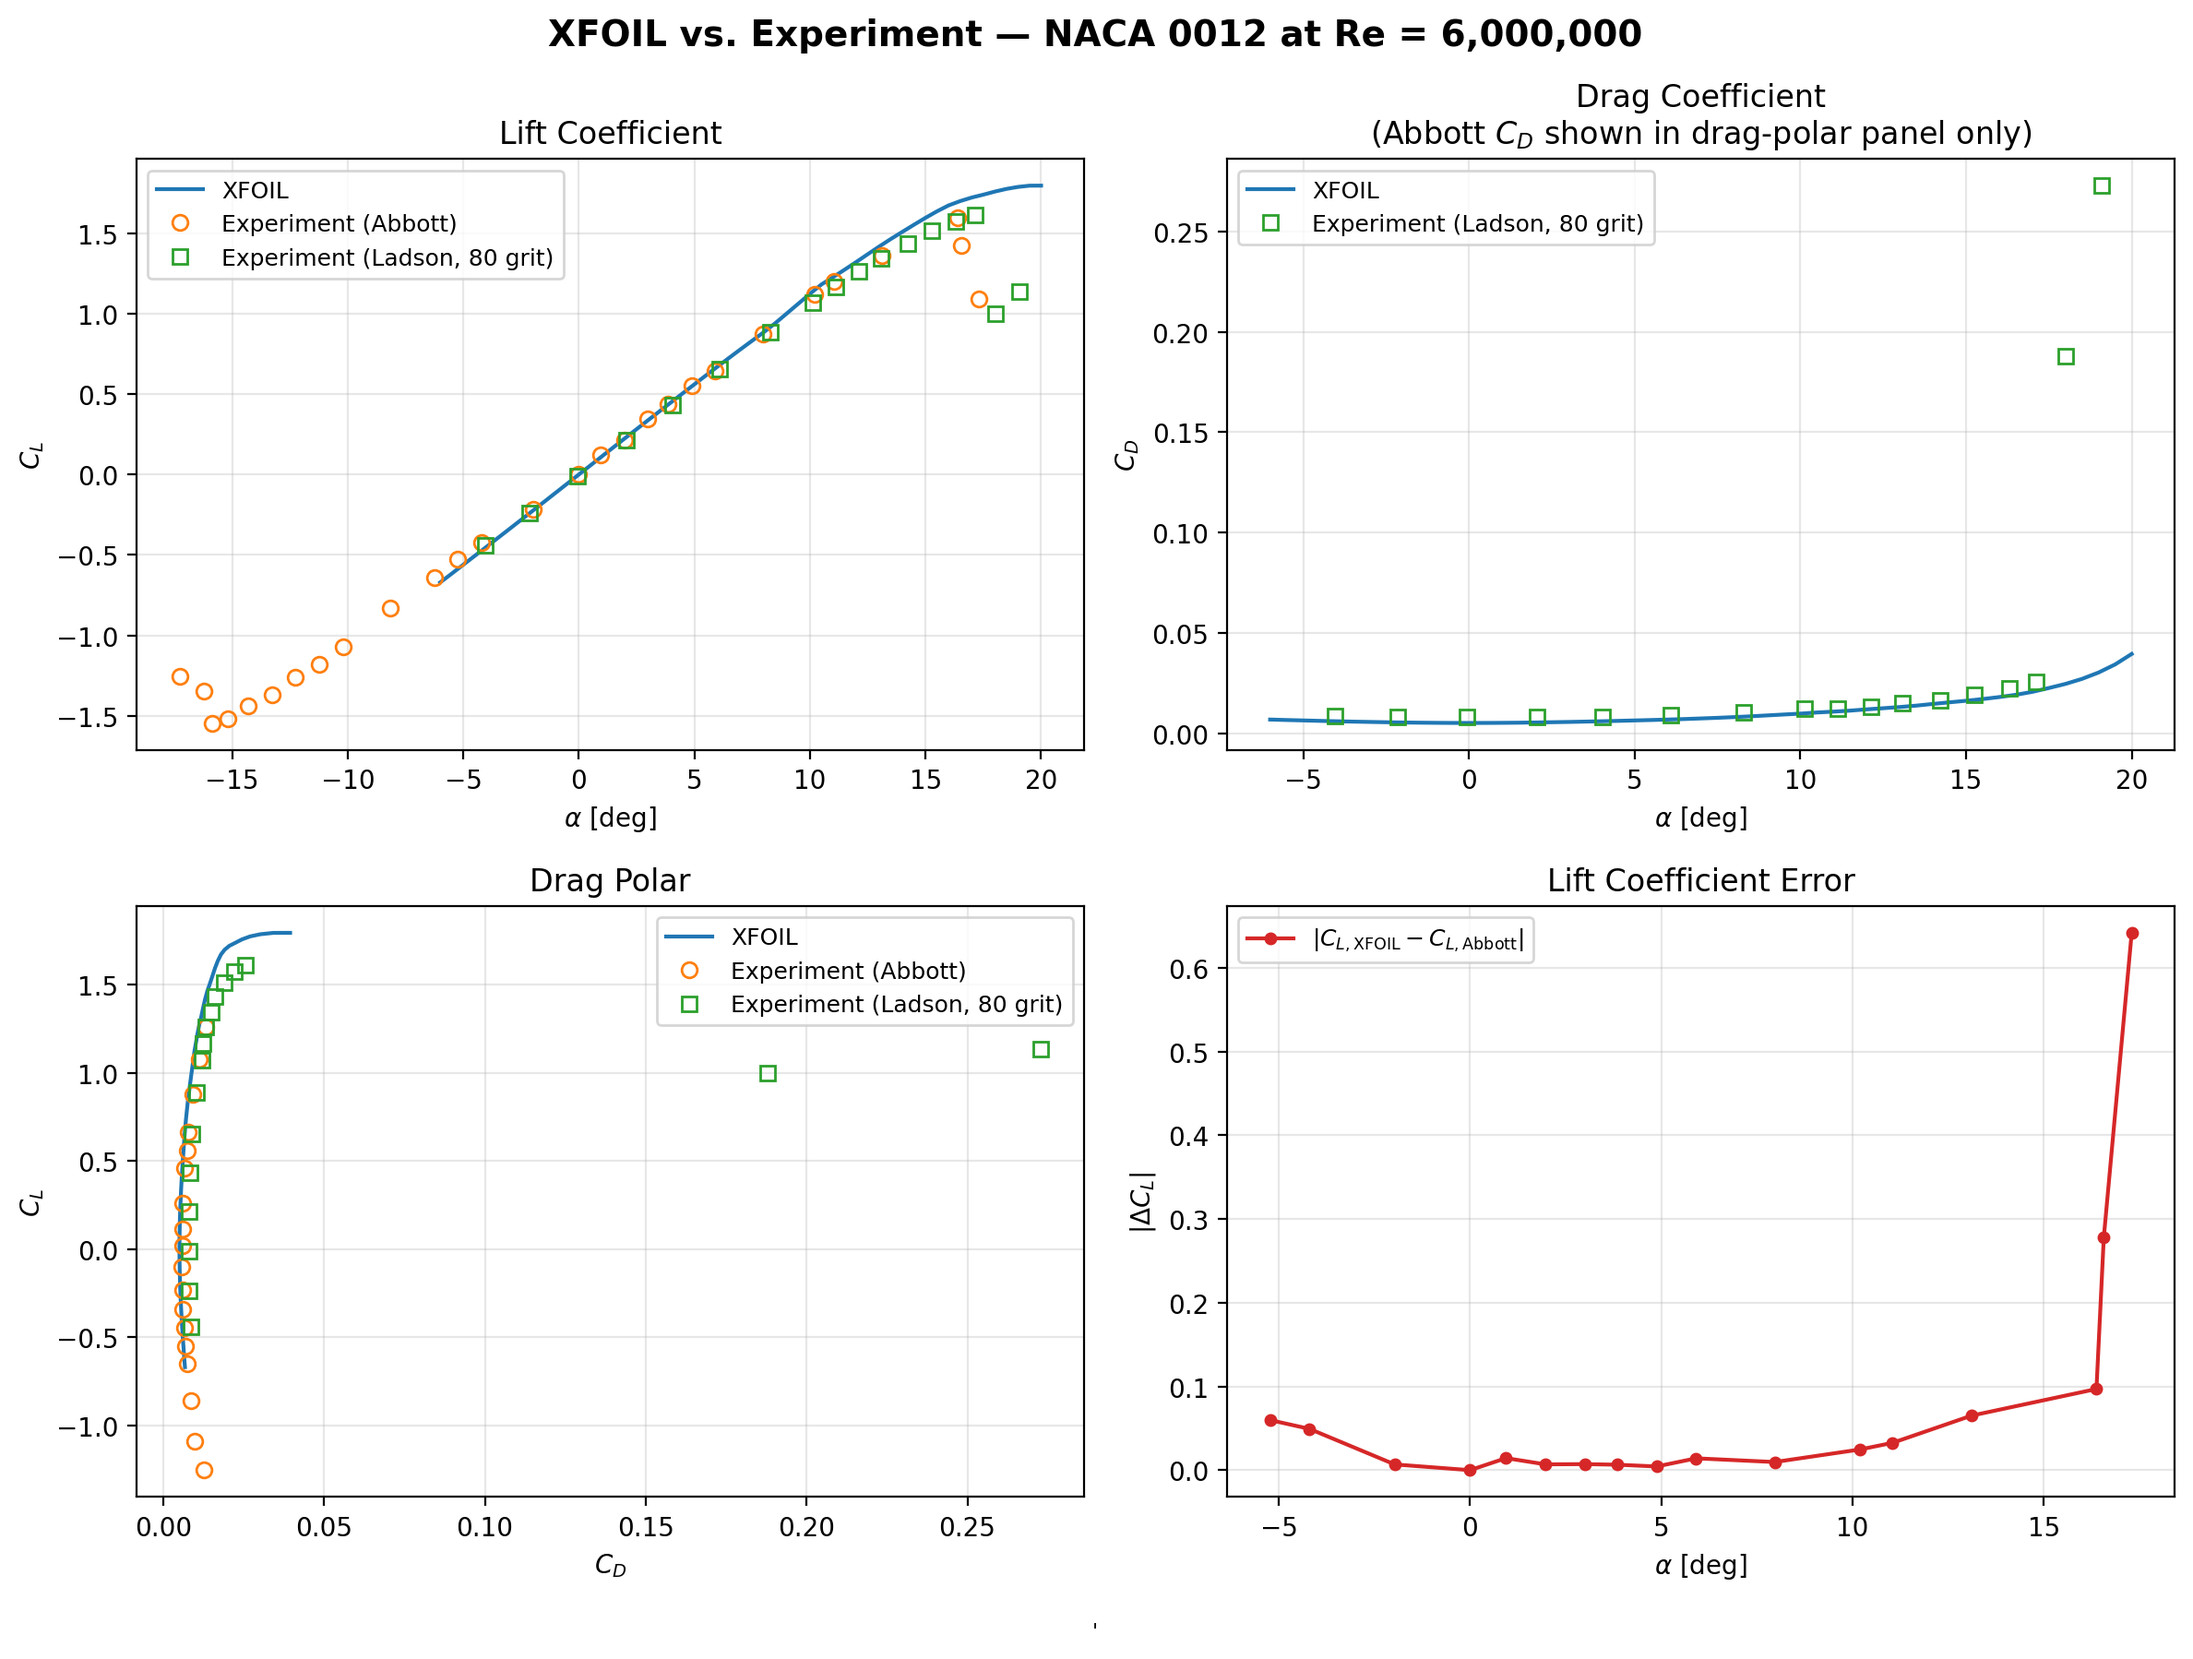
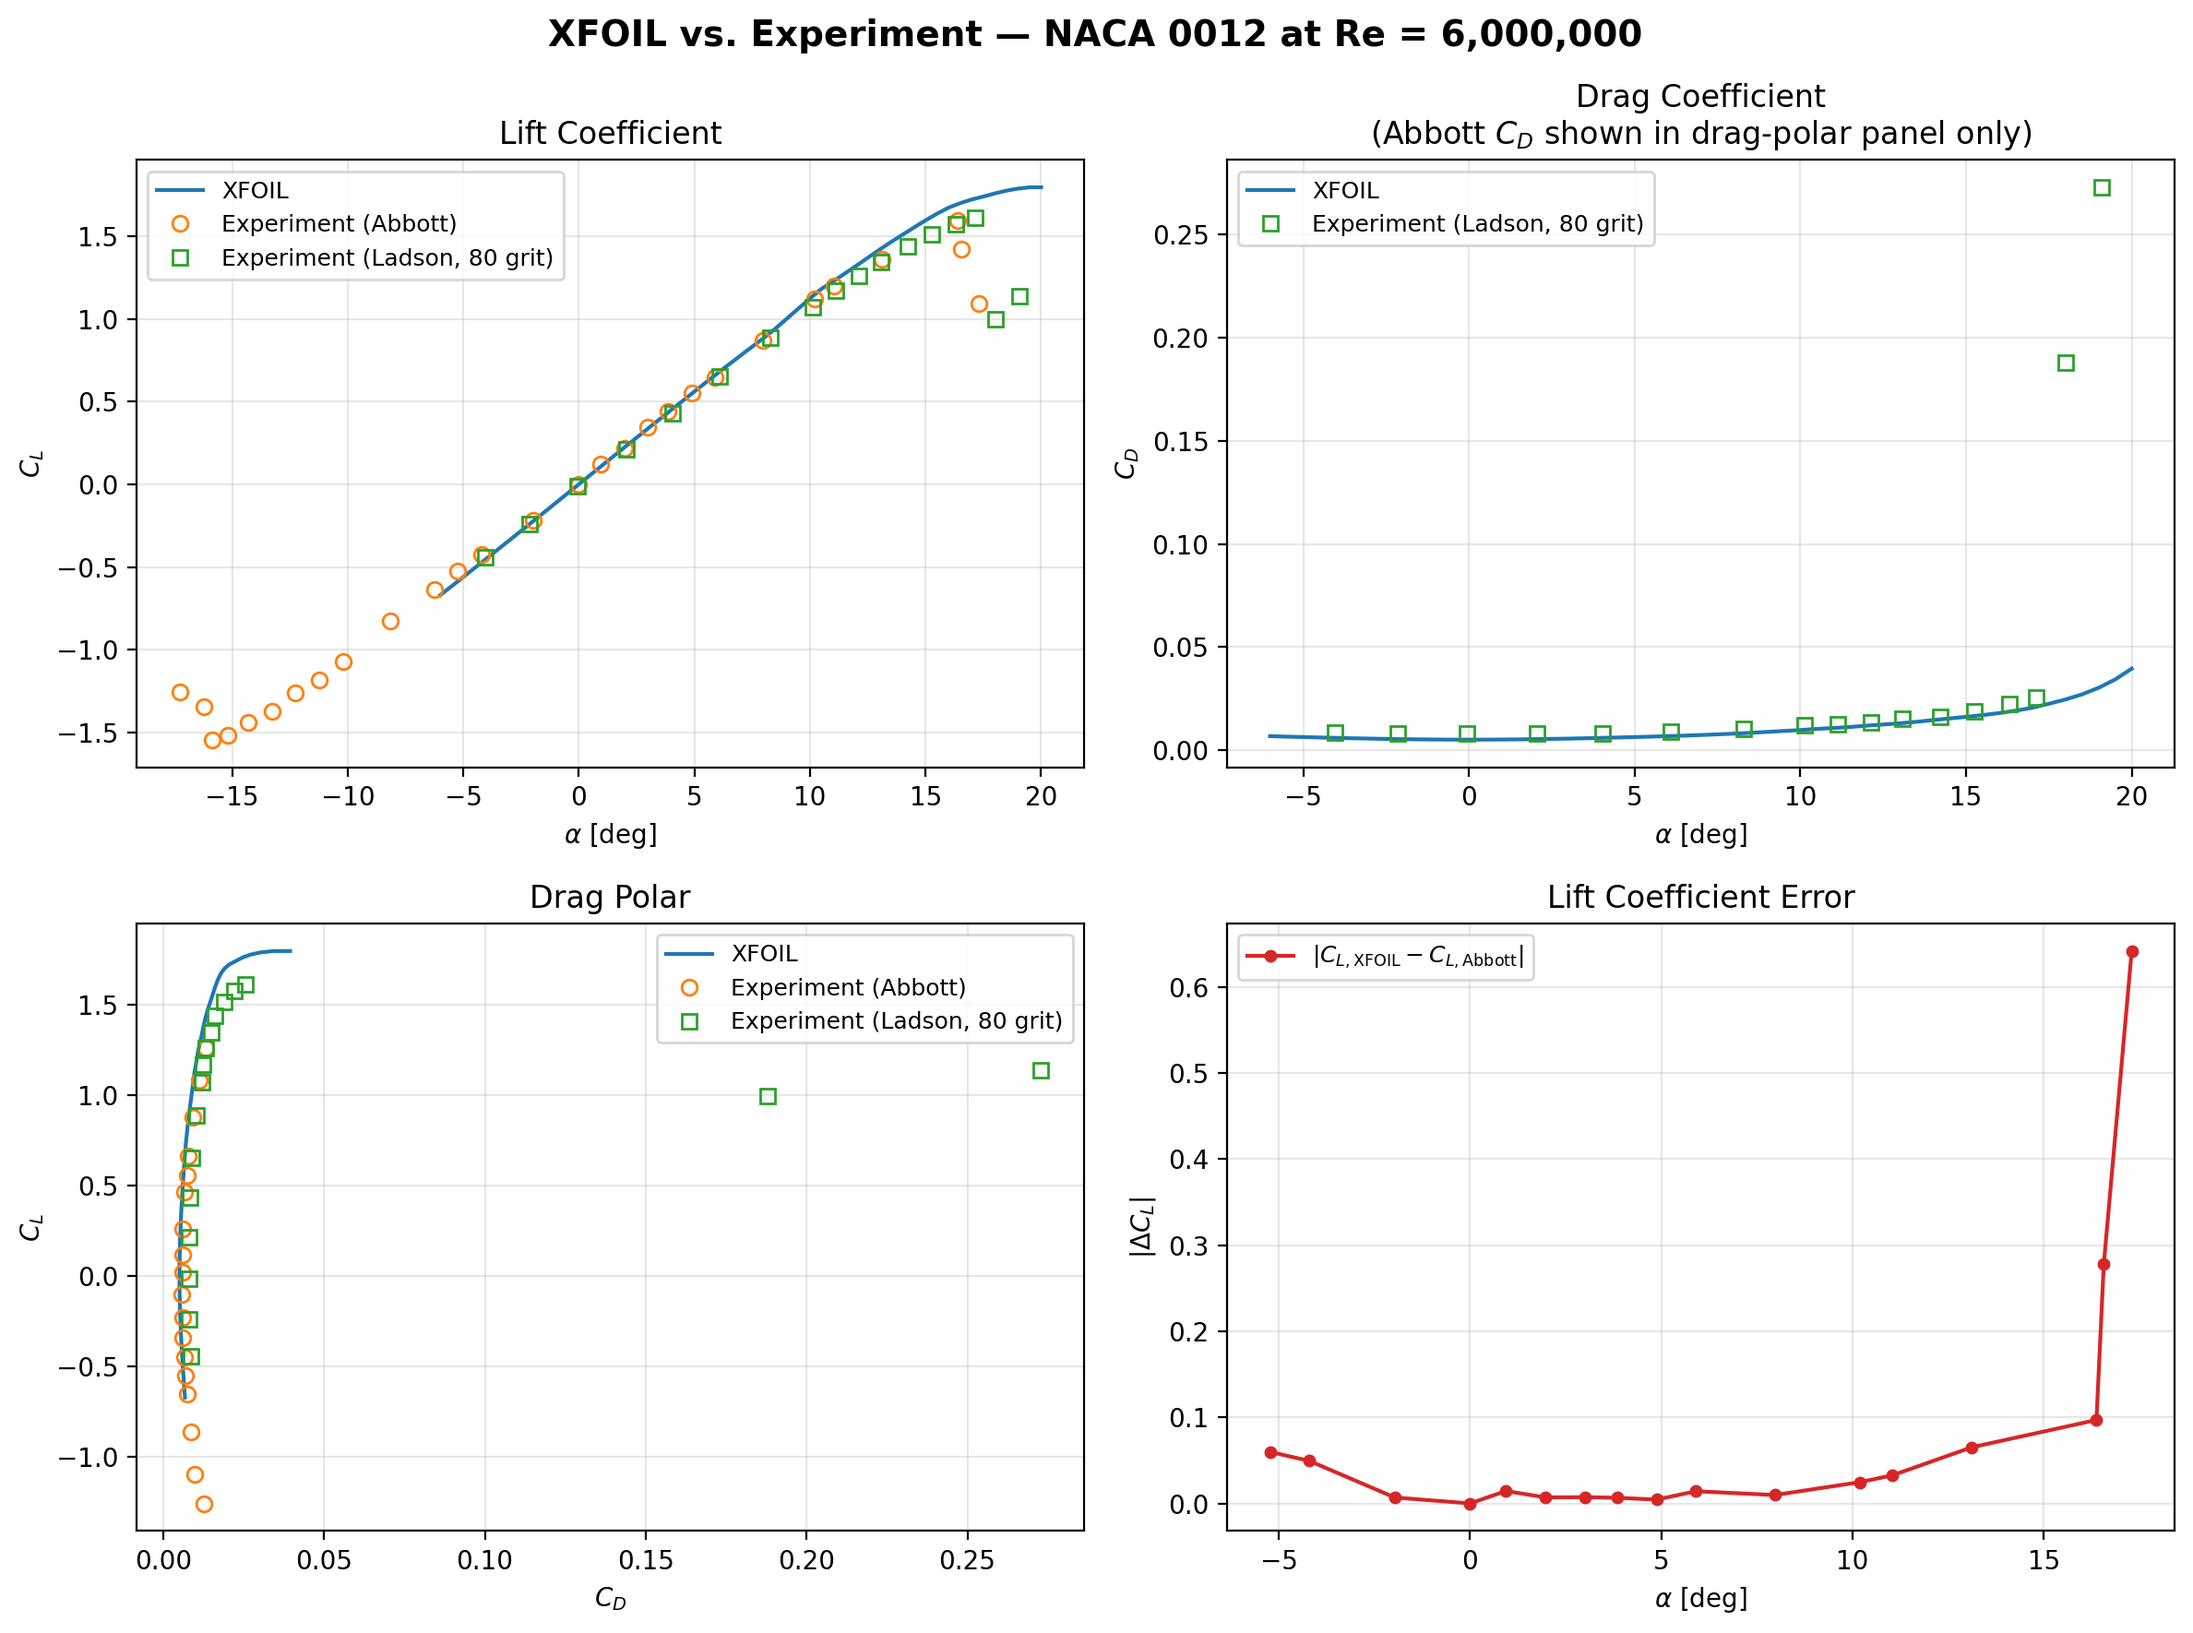
Fix src/ paths broken by repo restructure, add journal entry
xfoil_runner.py now points at the actual XFOIL install and the real
results/ folder; xfoil_vs_experiment.py and file_read.py now resolve
data/ correctly; removed stale sys.path hacks in airfoil_comparison.py
and reynolds_sweep.py. Verified by running all four XFOIL scripts
end-to-end.

diff --git a/src/xfoil_runner.py b/src/xfoil_runner.py
@@ -13,13 +13,14 @@ import subprocess
 import numpy as np
 
 
-# XFOIL ships as xfoil.exe next to this script; resolve it absolutely so the
-# wrapper works no matter what the caller's working directory is.
+# XFOIL is installed outside the repo; resolve it absolutely so the wrapper
+# works no matter what the caller's working directory is.
 _HERE = os.path.dirname(os.path.abspath(__file__))
-_DEFAULT_XFOIL = os.path.join(_HERE, "xfoil.exe")
+_DEFAULT_XFOIL = r"C:\Users\miash\Documents\XFOIL6.99\xfoil.exe"
 
-# All generated output (polars, figures) is collected here, next to this script.
-RESULTS_DIR = os.path.join(_HERE, "XFOIL Results")
+# All generated output (polars, figures) is collected in the repo's top-level
+# results/ folder, one level up from this script.
+RESULTS_DIR = os.path.abspath(os.path.join(_HERE, "..", "results"))
 
 
 def run_xfoil_polar(
@@ -50,8 +51,8 @@ def run_xfoil_polar(
         Alpha sweep bounds and step, in degrees.
     polar_path : str, optional
         Where to write the polar file. A bare filename or relative path is placed
-        inside the "XFOIL Results" folder next to this script; an absolute path is
-        used as given. Will be deleted first if it already exists.
+        inside the top-level "results" folder; an absolute path is used as given.
+        Will be deleted first if it already exists.
     n_iter : int, optional
         Maximum viscous-solver iterations per alpha (default 100).
     mach : float, optional
@@ -59,8 +60,8 @@ def run_xfoil_polar(
     timeout : float, optional
         Maximum wall-clock seconds before XFOIL is killed (default 120).
     xfoil_executable : str, optional
-        Path to the XFOIL executable. Defaults to the xfoil.exe bundled next to
-        this script. Pass a full path here to use an XFOIL installed elsewhere.
+        Path to the XFOIL executable. Defaults to the XFOIL 6.99 install in
+        Documents. Pass a full path here to use an XFOIL installed elsewhere.
 
     Returns
     -------
@@ -227,4 +228,4 @@ if __name__ == "__main__":
     summarise_polar(polar, label=f"{airfoil_cmd} @ Re={reynolds:,}")
 
     print()
-    print(f"Done. Polar saved to: {os.path.join('XFOIL Results', fname)}")
+    print(f"Done. Polar saved to: {os.path.join('results', fname)}")

diff --git a/src/xfoil_vs_experiment.py b/src/xfoil_vs_experiment.py
@@ -7,13 +7,10 @@ wind-tunnel data from Abbott & von Doenhoff, "Theory of Wing Sections". Produces
 """
 
 import os
-import sys
 
 import numpy as np
 import matplotlib.pyplot as plt
 
-# This script lives in validation/; xfoil_runner.py sits one level up.
-sys.path.insert(0, os.path.dirname(os.path.dirname(os.path.abspath(__file__))))
 from xfoil_runner import run_xfoil_polar, RESULTS_DIR
 
 
@@ -246,15 +243,7 @@ def plot_xfoil_vs_experiment(xfoil_polar, exp_data, airfoil_name, reynolds,
     else:
         print("  [WARN] No overlap between experimental and XFOIL alpha ranges — no CL error computed.")
 
-    # Caption: digitising caveat. (The Reynolds caveat is in the suptitle.)
-    fig.text(
-        0.5, 0.005,
-        ""
-        "'",
-        ha="center", fontsize=8, style="italic",
-    )
-
-    plt.tight_layout(rect=[0, 0.02, 1, 1])
+    plt.tight_layout()
 
     if save_path:
         plt.savefig(save_path, dpi=200, bbox_inches="tight")
@@ -293,8 +282,8 @@ if __name__ == "__main__":
         print(f"  Converged points: {len(val_polar)} "
               f"(alpha {val_polar[:, 0].min():+.1f} to {val_polar[:, 0].max():+.1f} deg)")
 
-        # Digitised experimental data lives in the data/ subfolder next to this script.
-        exp_dir = os.path.join(os.path.dirname(os.path.abspath(__file__)), "data")
+        # Digitised experimental data lives in the repo's top-level data/ folder.
+        exp_dir = os.path.join(os.path.dirname(os.path.dirname(os.path.abspath(__file__))), "data")
         cl_path = os.path.join(exp_dir, "0012_abbottdata_cl.dat")
         cd_path = os.path.join(exp_dir, "0012_abbottdata_cd.dat")
         ladson_path = os.path.join(exp_dir, "CLCD_Ladson_expdata.dat")
@@ -324,4 +313,4 @@ if __name__ == "__main__":
             )
 
     print()
-    print("Done. PNG figure saved to the 'XFOIL Results' folder.")
+    print("Done. PNG figure saved to the 'results' folder.")

diff --git a/src/reynolds_sweep.py b/src/reynolds_sweep.py
@@ -9,13 +9,10 @@ Runs XFOIL for NACA 2412 across a range of Reynolds numbers and plots a 2x2 grid
 """
 
 import os
-import sys
 
 import numpy as np
 import matplotlib.pyplot as plt
 
-# This script lives in validation/; xfoil_runner.py sits one level up.
-sys.path.insert(0, os.path.dirname(os.path.dirname(os.path.abspath(__file__))))
 from xfoil_runner import run_xfoil_polar, RESULTS_DIR
 
 
@@ -132,4 +129,4 @@ if __name__ == "__main__":
     )
 
     print()
-    print("Done. PNG figure saved to the 'XFOIL Results' folder.")
+    print("Done. PNG figure saved to the 'results' folder.")

diff --git a/src/airfoil_comparison.py b/src/airfoil_comparison.py
@@ -9,13 +9,10 @@ Runs XFOIL for several NACA airfoils at Re = 200,000 and plots a 2x2 grid:
 """
 
 import os
-import sys
 
 import numpy as np
 import matplotlib.pyplot as plt
 
-# This script lives in validation/; xfoil_runner.py sits one level up.
-sys.path.insert(0, os.path.dirname(os.path.dirname(os.path.abspath(__file__))))
 from xfoil_runner import run_xfoil_polar, RESULTS_DIR
 
 
@@ -109,4 +106,4 @@ if __name__ == "__main__":
     )
 
     print()
-    print("Done. PNG figure saved to the 'XFOIL Results' folder.")
+    print("Done. PNG figure saved to the 'results' folder.")

diff --git a/src/file_read.py b/src/file_read.py
@@ -1,4 +1,11 @@
+import os
+
+_data_path = os.path.join(
+    os.path.dirname(os.path.dirname(os.path.abspath(__file__))),
+    "data", "uae6.z18.00.s0500000.eng",
+)
+
 # Open with UTF-8 and ignore decoding hiccups
-with open("uae6.z18.00.s0500000.eng", "r", encoding="utf-8", errors="ignore") as file:
+with open(_data_path, "r", encoding="utf-8", errors="ignore") as file:
     for i in range(20):
-        print(file.readline())
+        print(file.readline().encode("ascii", errors="replace").decode("ascii"))
